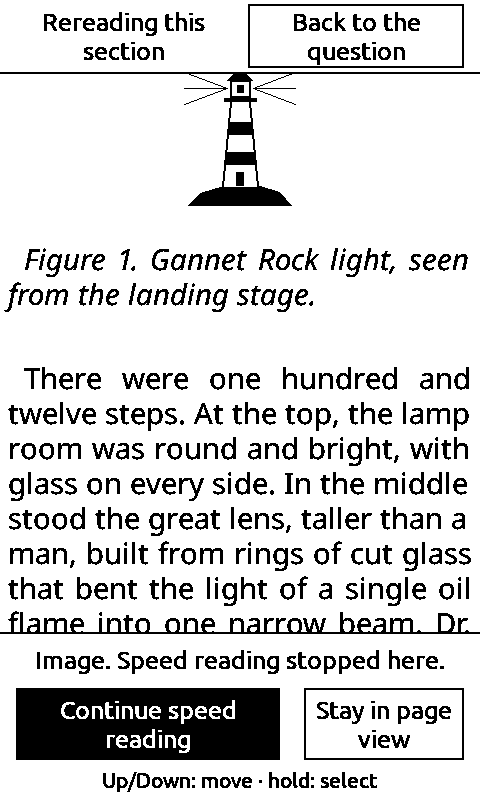
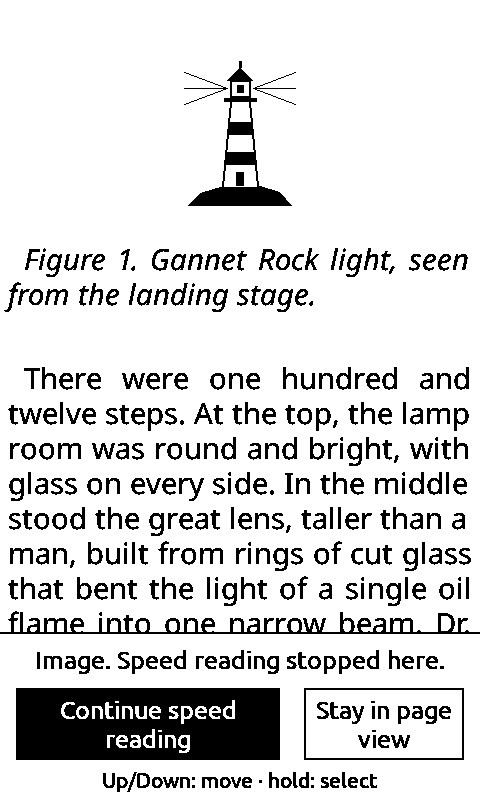
C4: page-view reread bar below the text area; next words on the RSVP reread pause screen
The bar now covers the reader's status-bar row: rereadBarLayout() from the
reader's own text-area bottom, growing at most one line upward when less
than 24 px are free; host-tested; scenario taps and refs updated. The RSVP
reread pause screen shows the next words in the note row. Next: docs,
evidence, full runs, PR text.

Claude-Session: https://claude.ai/code/session_015XqorauoNnHp4kF1EbLgVV

Changed region(s): [[0.5, 0.0, 0.9688, 0.0938], [0.0938, 0.0, 0.4375, 0.0938]]

diff --git a/src/activities/checkpoint/RereadScreens.cpp b/src/activities/checkpoint/RereadScreens.cpp
@@ -12,6 +12,7 @@
 
 #include <cstdio>
 #include <cstring>
+#include <string>
 
 #include "CheckpointLaunch.h"
 #include "CrossPointSettings.h"
@@ -27,9 +28,8 @@ namespace {
 using controls::Item;
 using readingsession::RereadChoice;
 
-// The bar (S4 section 2, "Reread in page view"): a white strip over the page's top, a rule under it,
-// the label at the left and the button (controls::REREAD_BAR) at the right.
-constexpr int BAR_HEIGHT = 72;
+// The bar: a white strip over the reader's status-bar row with a rule along its top, the label at the
+// left and the button at the right (controls::rereadBarLayout()).
 constexpr int MARGIN = 16;
 constexpr int BORDER = 2;
 constexpr int TEXT_PAD = 8;
@@ -61,13 +61,14 @@ RereadChoice choiceFor(const Item item) {
 }
 
 // Draws `label` centred in zone `z`, on one line or, when too wide, on two split at a space.
-void drawLabel(const GfxRenderer& renderer, const controls::Zone& z, const char* label, const bool inverted) {
-  const int font = UI_12_FONT_ID;
+void drawLabel(const GfxRenderer& renderer, const controls::Zone& z, const char* label, const bool inverted,
+               const int font = UI_12_FONT_ID, const bool twoLines = true) {
   const int lineHeight = renderer.getLineHeight(font);
   const int room = z.w - 2 * TEXT_PAD;
-  if (renderer.getTextWidth(font, label) <= room) {
-    renderer.drawText(font, z.x + (z.w - renderer.getTextWidth(font, label)) / 2, z.y + (z.h - lineHeight) / 2, label,
-                      !inverted);
+  if (renderer.getTextWidth(font, label) <= room || !twoLines) {
+    const std::string line = renderer.truncatedText(font, label, room);
+    renderer.drawText(font, z.x + (z.w - renderer.getTextWidth(font, line.c_str())) / 2, z.y + (z.h - lineHeight) / 2,
+                      line.c_str(), !inverted);
     return;
   }
   char first[64];
@@ -170,19 +171,31 @@ class RereadChoices final : public Activity {
 
 namespace checkpointentry {
 
-void drawRereadBar(GfxRenderer& renderer) {
+void drawRereadBar(GfxRenderer& renderer, const controls::RereadBarLayout& bar) {
   const int width = renderer.getScreenWidth();
-  renderer.fillRect(0, 0, width, BAR_HEIGHT, false);
-  renderer.fillRect(0, BAR_HEIGHT, width, BORDER, true);
-  const controls::Zone& button = controls::REREAD_BAR.zones[0];
-  // The label left of the button, on two lines when it does not fit on one.
-  const controls::Zone label{
-      Item::BackToQuestion, MARGIN, button.y, static_cast<int16_t>(button.x - 2 * MARGIN), button.h, false};
-  drawLabel(renderer, label, tr(STR_CP_REREAD_BAR), false);
+  const int height = renderer.getScreenHeight();
+  renderer.fillRect(0, bar.top, width, height - bar.top, false);
+  renderer.fillRect(0, bar.top, width, controls::REREAD_BAR_RULE, true);
+  const controls::Zone& button = bar.button;
+  // The texts in the largest UI font whose line fits the strip; two lines when the strip holds two.
+  // (with room for the border and the descenders: a 23 px strip takes the small font).
+  const int font = button.h >= renderer.getLineHeight(UI_12_FONT_ID) + 2 * BORDER + 4 ? UI_12_FONT_ID : UI_10_FONT_ID;
+  const bool twoLines = button.h >= 2 * renderer.getLineHeight(font) + 2 * BORDER;
+  // The label left of the button; "Rereading" when the whole label does not fit.
+  const controls::Zone label{Item::BackToQuestion, controls::REREAD_BAR_MARGIN, button.y, bar.labelW, button.h, false};
+  const char* labelText = tr(STR_CP_REREAD_BAR);
+  if (!twoLines && renderer.getTextWidth(font, labelText) > label.w - 2 * TEXT_PAD) labelText = tr(STR_CP_REREADING);
+  const controls::Zone labelArea{label.item, label.x, label.y, label.w, static_cast<int16_t>(label.h - 2 * BORDER),
+                                 false};
+  drawLabel(renderer, labelArea, labelText, false, font, twoLines);
   renderer.drawRect(button.x, button.y, button.w, button.h, BORDER, true);
-  drawLabel(renderer, button, tr(STR_CP_BACK_TO_QUESTION), false);
+  // Centred above the bottom border, which sits on the screen's edge, so that descenders stay inside.
+  const controls::Zone text{button.item, button.x, button.y, button.w, static_cast<int16_t>(button.h - 2 * BORDER),
+                            false};
+  drawLabel(renderer, text, tr(STR_CP_BACK_TO_QUESTION), false, font, twoLines);
   renderer.displayBuffer(HalDisplay::FAST_REFRESH);
-  LOG_DBG("CPT", "reread bar shown");
+  LOG_DBG("CPT", "reread bar shown top=%d button=%d,%d,%d,%d clear_of_text=%d label=\"%s\"", bar.top, button.x,
+          button.y, button.w, button.h, bar.clearOfText ? 1 : 0, labelText);
 }
 
 std::unique_ptr<Activity> createRereadChoices(GfxRenderer& renderer, MappedInputManager& input,

diff --git a/src/controls/ControlMap.h b/src/controls/ControlMap.h
@@ -195,10 +195,48 @@ inline constexpr Zone PAUSE_REREAD_ZONES[] = {
 inline constexpr Screen PAUSE_REREAD{
     PAUSE_REREAD_ZONES, static_cast<uint8_t>(sizeof(PAUSE_REREAD_ZONES) / sizeof(PAUSE_REREAD_ZONES[0])), 5};
 
-// Page view during a reread (task C4; S4 row 31): the top bar's one button, drawn over the page. The
-// reader checks a tap against it before its own taps (links, menu, page-turn zones).
-inline constexpr Zone REREAD_BAR_ZONES[] = {{Item::BackToQuestion, 248, 4, 216, 64, false}};
-inline constexpr Screen REREAD_BAR{REREAD_BAR_ZONES, 1, 0};
+// Page view during a reread (task C4; replaces S4 row 31's top bar, which hid the page's first lines):
+// a strip over the reader's status-bar row, from the bottom of its text area to the bottom of the
+// screen, with the label at the left and the "Back to the question" button at the right. The reader
+// checks a tap against the button before its own taps (links, menu, page-turn zones).
+inline constexpr int16_t REREAD_BAR_MIN_H = 24;      // smallest strip: a line of the small UI font and the rule
+inline constexpr int16_t REREAD_BAR_BUTTON_W = 248;  // wide enough for the label on one line
+inline constexpr int16_t REREAD_BAR_MARGIN = 16;
+inline constexpr int16_t REREAD_BAR_RULE = 1;  // the rule along the strip's top edge
+inline constexpr int16_t REREAD_BAR_GAP = 0;   // between the rule, the button and the screen's edge
+
+struct RereadBarLayout {
+  int16_t top;     // the strip's top edge (its rule)
+  Zone button;     // BackToQuestion
+  int16_t labelW;  // the label's width, from x = REREAD_BAR_MARGIN
+  // The strip is below the text area (covers no line of text): `top` >= the text area's bottom.
+  bool clearOfText;
+};
+
+// The bar on a screen of `width` x `height` whose text area ends at `textBottom` (the reader's
+// screen height minus its bottom margin: inset, screen margin, status-bar lane). When the space below
+// is smaller than REREAD_BAR_MIN_H the strip grows upward, but by at most `maxCover` (one line of the
+// reader's text) into the text area, so it can cover the bottom margin and the last line, never more and
+// never the top of the page.
+constexpr RereadBarLayout rereadBarLayout(const int16_t width, const int16_t height, const int16_t textBottom,
+                                          const int16_t maxCover) {
+  const int16_t bottom = textBottom < 0 ? 0 : (textBottom > height ? height : textBottom);
+  int16_t top = bottom;
+  if (height - bottom < REREAD_BAR_MIN_H) {
+    const int16_t wanted = static_cast<int16_t>(height - REREAD_BAR_MIN_H);
+    const int16_t limit = static_cast<int16_t>(bottom - (maxCover > 0 ? maxCover : 0));
+    top = wanted > limit ? wanted : limit;
+    if (top < 0) top = 0;
+  }
+  const int16_t y = static_cast<int16_t>(top + REREAD_BAR_RULE + REREAD_BAR_GAP);
+  const int16_t h = static_cast<int16_t>(height - REREAD_BAR_GAP - y);
+  const int16_t buttonW = width - 3 * REREAD_BAR_MARGIN < REREAD_BAR_BUTTON_W
+                              ? static_cast<int16_t>(width - 3 * REREAD_BAR_MARGIN)
+                              : REREAD_BAR_BUTTON_W;
+  const int16_t x = static_cast<int16_t>(width - REREAD_BAR_MARGIN - buttonW);
+  return RereadBarLayout{top, Zone{Item::BackToQuestion, x, y, buttonW, h > 0 ? h : int16_t{0}, false},
+                         static_cast<int16_t>(x - 2 * REREAD_BAR_MARGIN), top >= bottom};
+}
 
 // The list a side-key hold opens in page view during a reread (S4 row 31 and section 8): rows of
 // 448x72 from y=72 as in the generic list (CHOICE_ZONES), "Back to the question" the default. The hold

diff --git a/test/rsvp_activity/ControlMapTest.cpp b/test/rsvp_activity/ControlMapTest.cpp
@@ -258,18 +258,57 @@ TEST(ControlMap, RereadPauseScreenAddsBackToTheQuestion) {
   EXPECT_STREQ(itemName(Item::BackToQuestion), "BackToQuestion");
 }
 
-TEST(ControlMap, RereadBarAndListMatchS4Row31) {
-  ASSERT_EQ(REREAD_BAR.count, 1);
-  const Zone& bar = REREAD_BAR.zones[0];
-  EXPECT_EQ(bar.item, Item::BackToQuestion);
-  EXPECT_EQ(bar.x, 248);
-  EXPECT_EQ(bar.y, 4);
-  EXPECT_EQ(bar.w, 216);
-  EXPECT_EQ(bar.h, 64);
-  EXPECT_EQ(hit(REREAD_BAR, 356, 36)->item, Item::BackToQuestion) << "S4 section 9, row 31";
-  EXPECT_EQ(hit(REREAD_BAR, 240, 400), nullptr) << "the page itself is not the bar";
-  EXPECT_EQ(hit(REREAD_BAR, 120, 36), nullptr) << "the bar's label is not a target";
+TEST(ControlMap, RereadBarSitsBelowTheTextAreaWithTheDefaultSettings) {
+  // The Picco's reader with the default settings (measured in the simulator: `reread bar metrics`): the
+  // text area ends at y 773 of 800, one line of text is 40 px. The strip covers the status-bar row only.
+  const RereadBarLayout bar = rereadBarLayout(480, 800, 773, 40);
+  EXPECT_EQ(bar.top, 773);
+  EXPECT_TRUE(bar.clearOfText);
+  EXPECT_GE(bar.top, 773) << "the bar's top is at or below the text area's bottom";
+  EXPECT_EQ(bar.button.item, Item::BackToQuestion);
+  EXPECT_EQ(bar.button.x, 216);
+  EXPECT_EQ(bar.button.y, 774);
+  EXPECT_EQ(bar.button.w, 248);
+  EXPECT_EQ(bar.button.h, 26);
+  EXPECT_EQ(bar.button.y + bar.button.h, 800) << "down to the screen's edge";
+  EXPECT_EQ(bar.labelW, 184);
+  const Screen screen{&bar.button, 1, 0};
+  EXPECT_EQ(hit(screen, 340, 787)->item, Item::BackToQuestion) << "the scenarios' tap";
+  EXPECT_EQ(hit(screen, 340, 772), nullptr) << "the text area is not the bar";
+  EXPECT_EQ(hit(screen, 100, 787), nullptr) << "the bar's label is not a target";
+}
 
+TEST(ControlMap, RereadBarWithOtherReaderSettings) {
+  // Measured in the simulator. More space below the text: a taller button, still clear of the text.
+  RereadBarLayout bar = rereadBarLayout(480, 800, 738, 40);  // screen margin 40
+  EXPECT_EQ(bar.top, 738);
+  EXPECT_TRUE(bar.clearOfText);
+  EXPECT_EQ(bar.button.h, 61);
+  bar = rereadBarLayout(480, 800, 768, 40);  // the progress bar shown
+  EXPECT_TRUE(bar.clearOfText);
+  EXPECT_EQ(bar.button.h, 31);
+  // Landscape: the same strip along the 800 px side.
+  bar = rereadBarLayout(800, 480, 453, 40);
+  EXPECT_EQ(bar.top, 453);
+  EXPECT_TRUE(bar.clearOfText);
+  EXPECT_EQ(bar.button.x, 536);
+  EXPECT_EQ(bar.button.h, 26);
+  // The status bar hidden: 8 px below the text area. The strip takes REREAD_BAR_MIN_H and so covers the
+  // bottom 16 px of the text area: at most the last line, never more.
+  bar = rereadBarLayout(480, 800, 792, 40);
+  EXPECT_EQ(bar.top, 800 - REREAD_BAR_MIN_H);
+  EXPECT_FALSE(bar.clearOfText);
+  EXPECT_LE(792 - bar.top, 40);
+  EXPECT_EQ(bar.button.h, 23);
+  // Never more than one line into the text area, however little space there is.
+  bar = rereadBarLayout(480, 800, 800, 10);
+  EXPECT_EQ(bar.top, 790);
+  bar = rereadBarLayout(480, 800, 800, 0);
+  EXPECT_EQ(bar.top, 800) << "no line may be covered: no strip";
+  EXPECT_EQ(bar.button.h, 0);
+}
+
+TEST(ControlMap, RereadListMatchesS4Row31) {
   // The list of the side-key hold: "Back to the question" the default, then Speed read and Keep reading,
   // on the generic list's rows.
   const Item order[] = {Item::BackToQuestion, Item::SpeedReadHere, Item::KeepReading};

diff --git a/src/reading/ReadingSession.cpp b/src/reading/ReadingSession.cpp
@@ -490,6 +490,21 @@ void notePageMove(reading::ReadingSession& session, const PageMove move) {
       move == PageMove::PreviousPage ? checkpoint::navSourceName(checkpoint::NavSource::PreviousPage) : "chapter-skip");
 }
 
+namespace {
+
+// The bar over the reader's status-bar row, at the reader's own metrics; its button is kept for a tap.
+void drawBar(GfxRenderer& renderer, reading::ReadingSession& session, const PageSpan& page) {
+  const controls::RereadBarLayout bar =
+      controls::rereadBarLayout(static_cast<int16_t>(renderer.getScreenWidth()),
+                                static_cast<int16_t>(renderer.getScreenHeight()), page.textBottom, page.lineHeight);
+  LOG_DBG("CPT", "reread bar metrics screen=%dx%d text_bottom=%d line=%d", renderer.getScreenWidth(),
+          renderer.getScreenHeight(), page.textBottom, page.lineHeight);
+  session.setRereadButton(bar.button);
+  checkpointentry::drawRereadBar(renderer, bar);
+}
+
+}  // namespace
+
 void pageShown(GfxRenderer& renderer, reading::ReadingSession& session, const PageSpan& page) {
   // Every page shown takes the source of the move that showed it, so none is left for a later page.
   const checkpoint::NavSource source = session.takePageSource();
@@ -501,7 +516,7 @@ void pageShown(GfxRenderer& renderer, reading::ReadingSession& session, const Pa
     if (!session.pageWordsOf(page, words)) {
       // No word index for the section's own chapter: the reread stays where it was.
       LOG_ERR("CPT", "reread page ch=%d: no word index, the reread place stays", page.spine);
-      checkpointentry::drawRereadBar(renderer);
+      drawBar(renderer, session, page);
       return;
     }
     place = reading::rereadPagePlace(words, range.chapter, session.pageReadingWord(), range);
@@ -514,7 +529,7 @@ void pageShown(GfxRenderer& renderer, reading::ReadingSession& session, const Pa
           static_cast<unsigned long>(words.first), static_cast<unsigned long>(words.last), words.any ? 1 : 0,
           place.inside ? 1 : 0, static_cast<unsigned long>(place.word));
   if (session.rereadMoved(to, source, "page") != reading::ReadingSession::RereadMove::Stays) return;
-  checkpointentry::drawRereadBar(renderer);
+  drawBar(renderer, session, page);
 }
 
 bool promptDue(const reading::ReadingSession& session) { return session.promptDue(); }
@@ -533,10 +548,11 @@ bool rereadBarTapped(const MappedInputManager& input, reading::ReadingSession& s
       !input.wasScreenTapped(x, y)) {
     return false;
   }
-  const controls::Zone* z = controls::hit(controls::REREAD_BAR, x, y);
+  RenderLock lock;  // the flow and the drawn button belong to the render task too
+  const controls::Screen bar{&session.rereadButtonZone(), 1, 0};
+  const controls::Zone* z = controls::hit(bar, x, y);
   if (z == nullptr) return false;
   LOG_DBG("CTL", "RereadBar select=%s", controls::itemName(z->item));
-  RenderLock lock;  // the flow belongs to the render task too
   return session.endReread(checkpoint::FlowEvent::ReturnEarly, "bar");
 }
 

diff --git a/src/activities/rsvp/RsvpActivity.cpp b/src/activities/rsvp/RsvpActivity.cpp
@@ -869,9 +869,10 @@ void RsvpActivity::paintPauseScreen() {
   snprintf(positionLine, sizeof(positionLine), "%s%s", shown.c_str(), line);
   renderer.drawText(UI_10_FONT_ID, MARGIN, POSITION_Y, positionLine);
 
-  // The words Play starts with; during a reread "Back to the question" takes their row (S4 row 30).
+  // The words Play starts with. During a reread "Back to the question" takes their row (S4 row 30) and
+  // they move to the note row above the key hint, unless a note needs it.
   char next[rsvp::FRAME_TEXT_CAPACITY + 1] = {};
-  if (index.isOpen() && !rereading) {
+  if (index.isOpen()) {
     wordindex::IndexWordSource peekSource(index.reader());
     peekSource.seek(position);
     size_t length = 0;
@@ -890,8 +891,10 @@ void RsvpActivity::paintPauseScreen() {
       }
     }
   }
-  renderer.drawCenteredText(UI_12_FONT_ID, NEXT_WORDS_Y + (NEXT_WORDS_H - renderer.getLineHeight(UI_12_FONT_ID)) / 2,
-                            next);
+  if (!rereading) {
+    renderer.drawCenteredText(UI_12_FONT_ID, NEXT_WORDS_Y + (NEXT_WORDS_H - renderer.getLineHeight(UI_12_FONT_ID)) / 2,
+                              next);
+  }
 
   for (int i = 0; i < pauseLayout().count; ++i) paintButton(i);
 
@@ -917,7 +920,12 @@ void RsvpActivity::paintPauseScreen() {
     case Note::None:
       break;
   }
-  if (noteText) renderer.drawCenteredText(UI_10_FONT_ID, NOTE_Y + (HINT_Y - NOTE_Y - smallHeight) / 2, noteText);
+  if (noteText) {
+    renderer.drawCenteredText(UI_10_FONT_ID, NOTE_Y + (HINT_Y - NOTE_Y - smallHeight) / 2, noteText);
+  } else if (rereading) {
+    renderer.drawCenteredText(UI_12_FONT_ID, NOTE_Y + (HINT_Y - NOTE_Y - renderer.getLineHeight(UI_12_FONT_ID)) / 2,
+                              next);
+  }
   renderer.drawCenteredText(UI_10_FONT_ID, HINT_Y + (HINT_H - smallHeight) / 2, tr(STR_RSVP_KEY_HINT));
 }
 

diff --git a/src/reading/ReadingSession.h b/src/reading/ReadingSession.h
@@ -38,6 +38,10 @@ struct PageSpan {
   int spine = 0;
   uint32_t startOffset = 0;
   uint32_t nextStartOffset = UINT32_MAX;  // UINT32_MAX on the chapter's last page
+  // pageShown() only (task C4): where the reader's text area ends (its screen height minus its bottom
+  // margin) and one line of its text, for the reread bar (controls::rereadBarLayout()).
+  int16_t textBottom = 0;
+  int16_t lineHeight = 0;
 };
 
 // A checkpoint that fired, kept by the session while it is in progress and by the result handlers.
@@ -168,6 +172,7 @@ inline std::shared_ptr<CheckpointRun> checkpointRun(const reading::ReadingSessio
 #include "ChapterWordIndex.h"
 #include "ReadingSessionRules.h"
 #include "activities/checkpoint/CheckpointLaunch.h"
+#include "controls/ControlMap.h"
 
 namespace readingsession {
 
@@ -279,6 +284,9 @@ class ReadingSession {
   const PageReading& pageReadingWord() const { return pageReading; }
   // Why page view moved last (notePageMove()); a page shown without one was a jump.
   void notePageSource(checkpoint::NavSource source) { pageSource = source; }
+  // The reread bar's button as last drawn (RenderLock), for a tap on it; none before the first draw.
+  void setRereadButton(const controls::Zone& button) { rereadButton = button; }
+  const controls::Zone& rereadButtonZone() const { return rereadButton; }
   checkpoint::NavSource takePageSource();
   // The visible offset of a word's start (the page holding it), and a chapter's word count.
   bool wordOffset(int spine, uint32_t word, uint32_t& offset);
@@ -320,6 +328,7 @@ class ReadingSession {
   bool rsvpResumeValid = false;
   checkpoint::Place rsvpResume;
   uint16_t rsvpResumeFrom = 0;
+  controls::Zone rereadButton{controls::Item::BackToQuestion, 0, 0, 0, 0, false};
 };
 
 }  // namespace reading

diff --git a/src/activities/reader/EpubReaderActivity.cpp b/src/activities/reader/EpubReaderActivity.cpp
@@ -1580,7 +1580,7 @@ bool EpubReaderActivity::openRereadChoices() {
   return true;
 }
 
-void EpubReaderActivity::notePageShown() {
+void EpubReaderActivity::notePageShown(const int textBottom) {
   if (!RSVP_FEATURE_ENABLED || !readingSession || !section) return;
   readingsession::PageSpan page;
   page.spine = currentSpineIndex;
@@ -1589,6 +1589,8 @@ void EpubReaderActivity::notePageShown() {
     page.nextStartOffset = section->getVisibleTextOffsetForPage(static_cast<uint16_t>(section->currentPage + 1))
                                .value_or(page.nextStartOffset);
   }
+  page.textBottom = static_cast<int16_t>(textBottom);
+  page.lineHeight = static_cast<int16_t>(renderer.getLineHeight(SETTINGS.getReaderFontId()));
   readingsession::pageShown(renderer, *readingSession, page);
 }
 
@@ -2262,7 +2264,8 @@ void EpubReaderActivity::renderBook() {
     const auto start = millis();
     renderContents(std::move(p), orientedMarginTop, orientedMarginRight, orientedMarginBottom, orientedMarginLeft);
     LOG_DBG("ERS", "Rendered page in %dms", millis() - start);
-    notePageShown();  // RSVP builds: during a page-view reread, its bar over the page
+    // RSVP builds: during a page-view reread, its bar over the status-bar row, below the text area.
+    notePageShown(renderer.getScreenHeight() - orientedMarginBottom);
     lastRenderCompleteMs = millis();
     markPageRendered();
   }

diff --git a/src/activities/checkpoint/CheckpointLaunch.h b/src/activities/checkpoint/CheckpointLaunch.h
@@ -19,6 +19,7 @@
 #include <string>
 
 #include "CheckpointScreens.h"
+#include "controls/ControlMap.h"
 
 class Activity;
 class GfxRenderer;
@@ -89,9 +90,10 @@ bool saveTransition(const std::string& bookPath, const reading::CheckpointBook& 
 
 // --- Rereading in page view (task C4; S4 row 31; RereadScreens.cpp).
 
-// Draws the reread bar over the top of the page in the frame buffer ("Rereading this section" and the
-// "Back to the question" button, controls::REREAD_BAR) and shows it with a fast refresh. Render task.
-void drawRereadBar(GfxRenderer& renderer);
+// Draws the reread bar over the reader's status-bar row in the frame buffer (`bar`,
+// controls::rereadBarLayout(): "Rereading this section" and the "Back to the question" button) and
+// shows it with a fast refresh. Render task.
+void drawRereadBar(GfxRenderer& renderer, const controls::RereadBarLayout& bar);
 
 // The list a side-key hold opens during a page-view reread: "Back to the question" (the default),
 // "Speed read from here", "Keep reading" (controls::REREAD_CHOICES). `chosen` is set when it finishes;

diff --git a/src/activities/reader/EpubReaderActivity.h b/src/activities/reader/EpubReaderActivity.h
@@ -209,7 +209,7 @@ class EpubReaderActivity final : public ReaderActivity {
   bool showCheckpoint(std::unique_ptr<Activity> activity, const std::shared_ptr<readingsession::CheckpointRun>& run);
   bool openRereadPrompt();
   bool openRereadChoices();
-  void notePageShown();
+  void notePageShown(int textBottom);
   // Toolbar reader menu (see Overlay above).
   bool usesToolbarMenu() const;
   void openOverlay(Overlay target);
